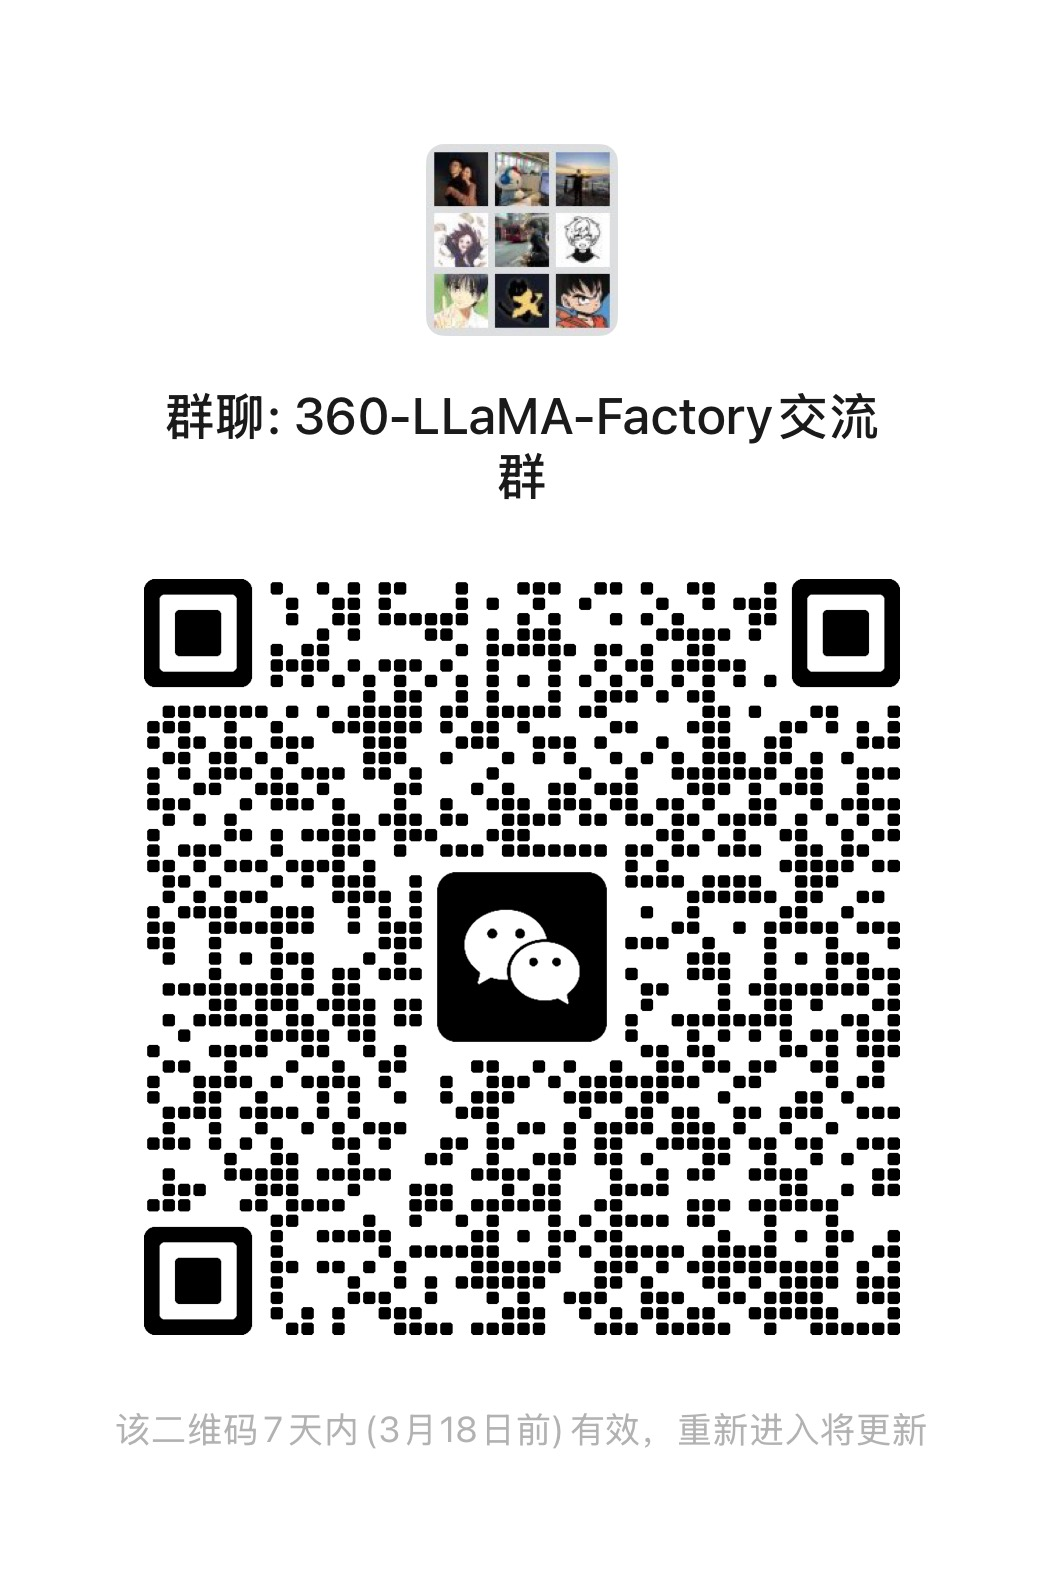
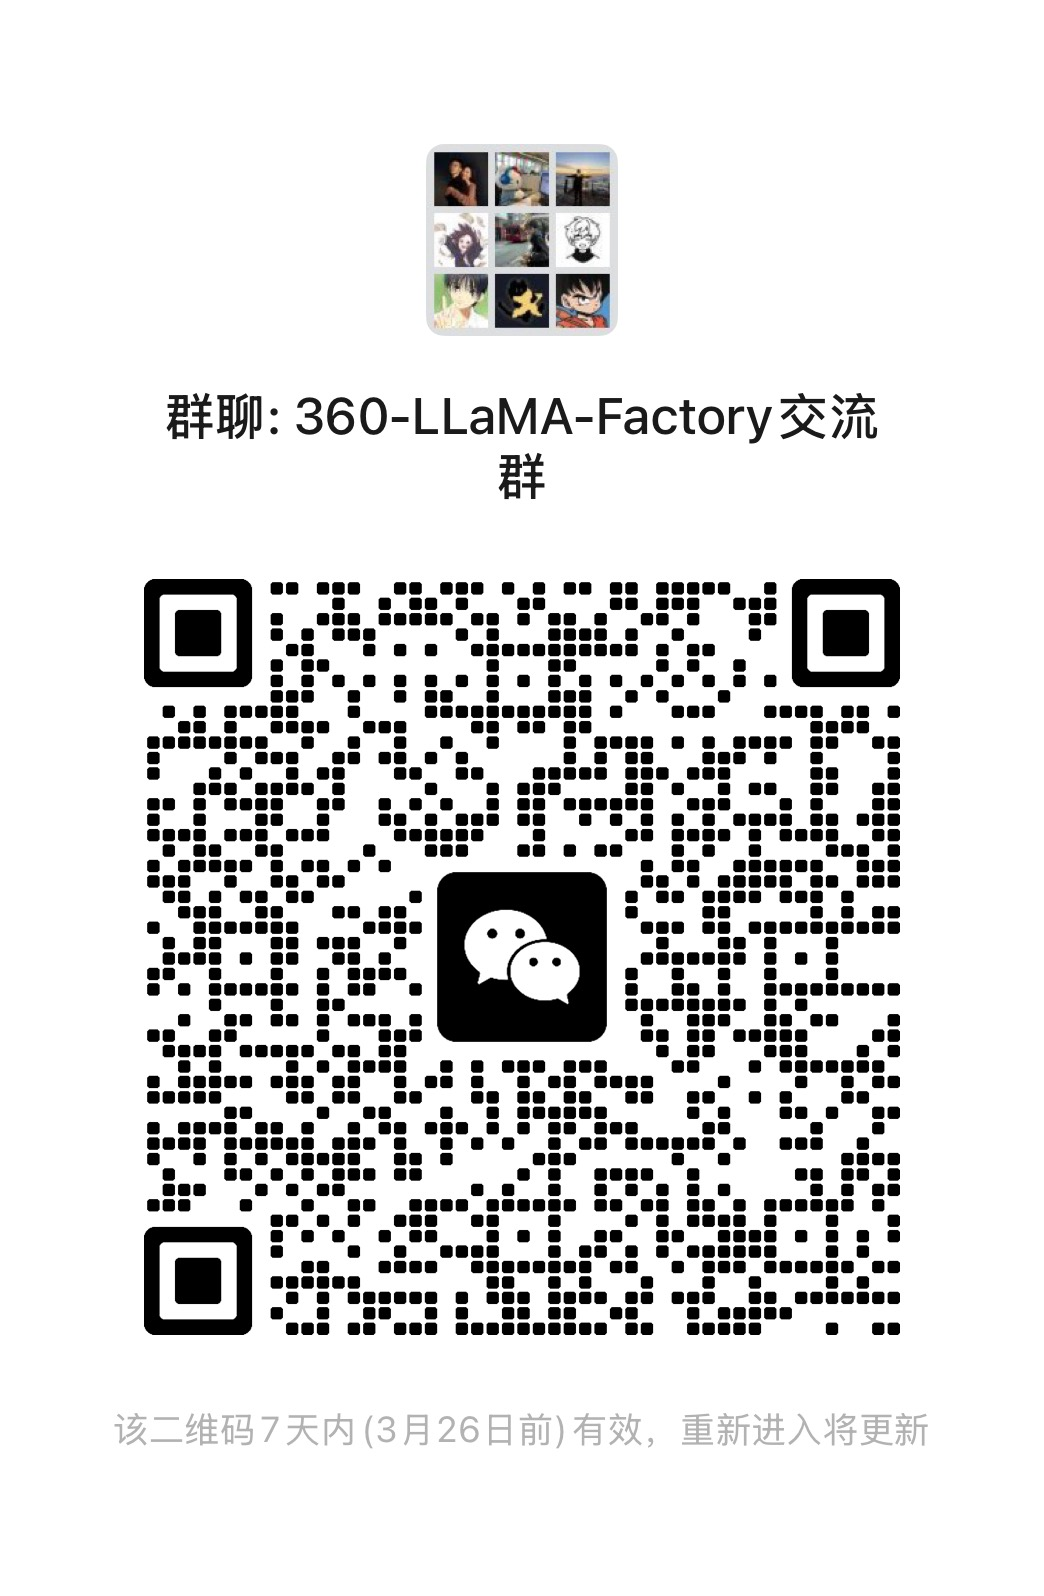
update wechat (#31)
* update wechat

* update readme

diff --git a/README.md b/README.md
@@ -26,7 +26,7 @@ While we first released it here,
 we're looking to merge it into LLaMA-Factory and have already contacted LLaMA-Factory's author.
 Before that, this codebase could be used directly in place of the original LLaMA-Factory codebase -- 360-LLaMA-Factory's behavior is *identical* to the original one without SP.
 
-[WeChat Group here.](assets/wechat-group-360.JPG)
+<img src="./assets/wechat-group-360.JPG" width="200" style="display: block; margin: 0 auto;"/>
 
 <!-- Please refer to this README and the <a href="https://github.com/hiyouga/LLaMA-Factory/blob/main/README.md"> original LLaMA-Factory README</a>. -->
 
